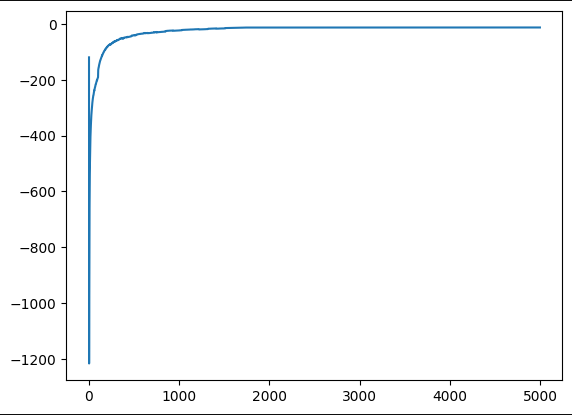
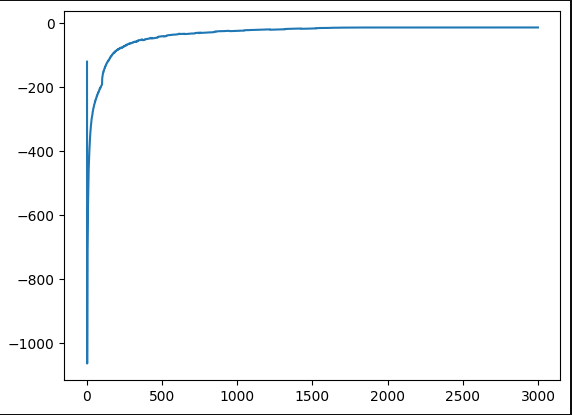
Fix class name and number of iterations

diff --git a/Q-Table-CliffWalk/Q-Table-Cliffwalk.py b/Q-Table-CliffWalk/Q-Table-Cliffwalk.py
@@ -2,7 +2,7 @@ import numpy as np
 import gym
 import matplotlib.pyplot as plt
 
-class Q_Table:
+class Q_Table_Agent:
     def __init__(self, states, actions, alpha, gamma, eps_decay_rate = 0.9, min_eps = 0.01):
         self.num_states = states
         self.num_actions = actions
@@ -41,8 +41,8 @@ class Q_Table:
 if __name__ == '__main__':
     print('Hello World')
     env = gym.make('CliffWalking-v0')
-    q_table = Q_Table(env.observation_space.n, env.action_space.n, 0.02, 0.99)
-    N = 5000
+    q_table_agent = Q_Table_Agent(env.observation_space.n, env.action_space.n, 0.02, 0.99)
+    N = 3000
     rewards = np.empty(N)
     ave_rewards = []
 
@@ -50,19 +50,19 @@ if __name__ == '__main__':
         if i%100 == 0:
             print("Processing round: ", i)
         state, _ = env.reset()
-        q_table.reset_state()
+        q_table_agent.reset_state()
         done = False
         reward = 0
         while not done:
-            action = q_table.get_action(state)
+            action = q_table_agent.get_action(state)
             new_state, cur_reward, done, _, _ = env.step(action)
             reward += cur_reward
-            q_table.act(new_state, cur_reward)
+            q_table_agent.act(new_state, cur_reward)
             state = new_state
         rewards[i] = reward
         ave_rewards.append(rewards[max(0,i-100):i].mean())
     plt.plot(ave_rewards)
-    policy = q_table.get_policy()
+    policy = q_table_agent.get_policy()
     policy[3,1:] = -1
     print("\nEstimated Optimal Policy (UP = 0, RIGHT = 1, DOWN = 2, LEFT = 3, N/A = -1):")
     print(policy)
